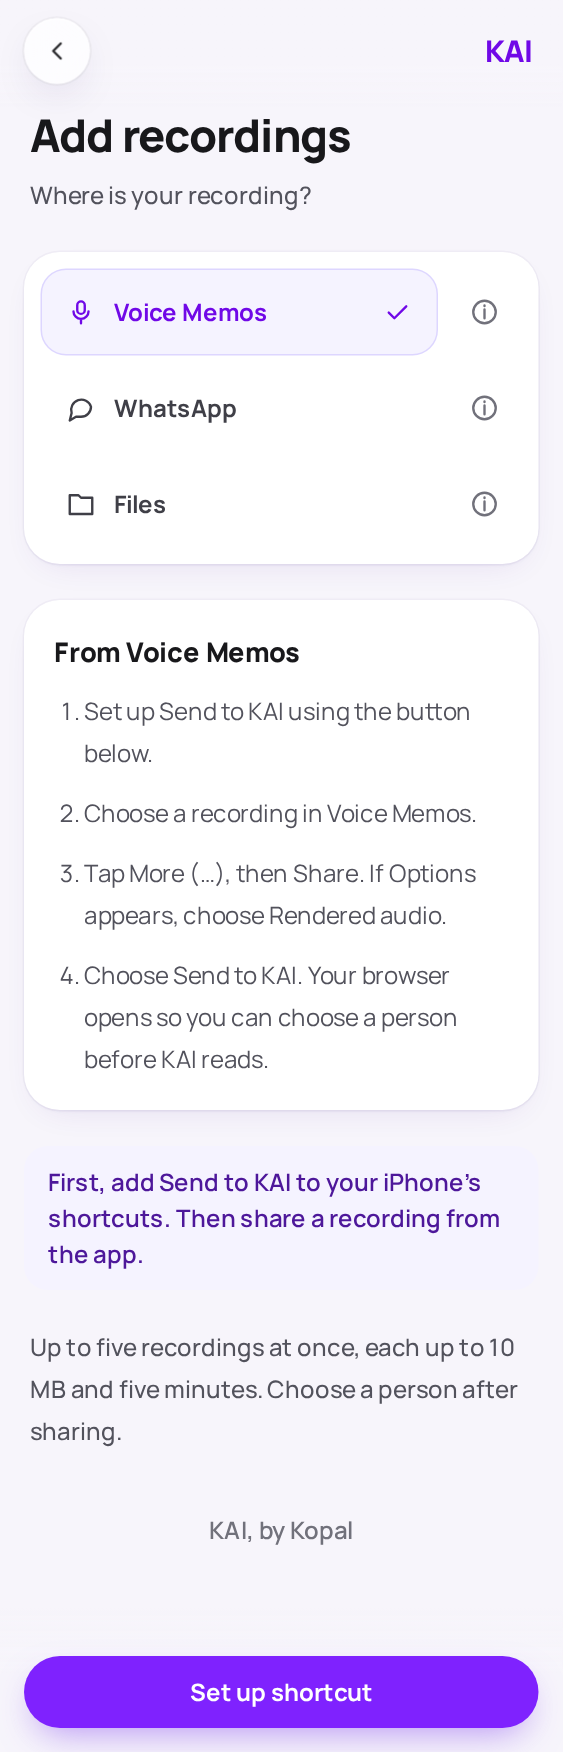
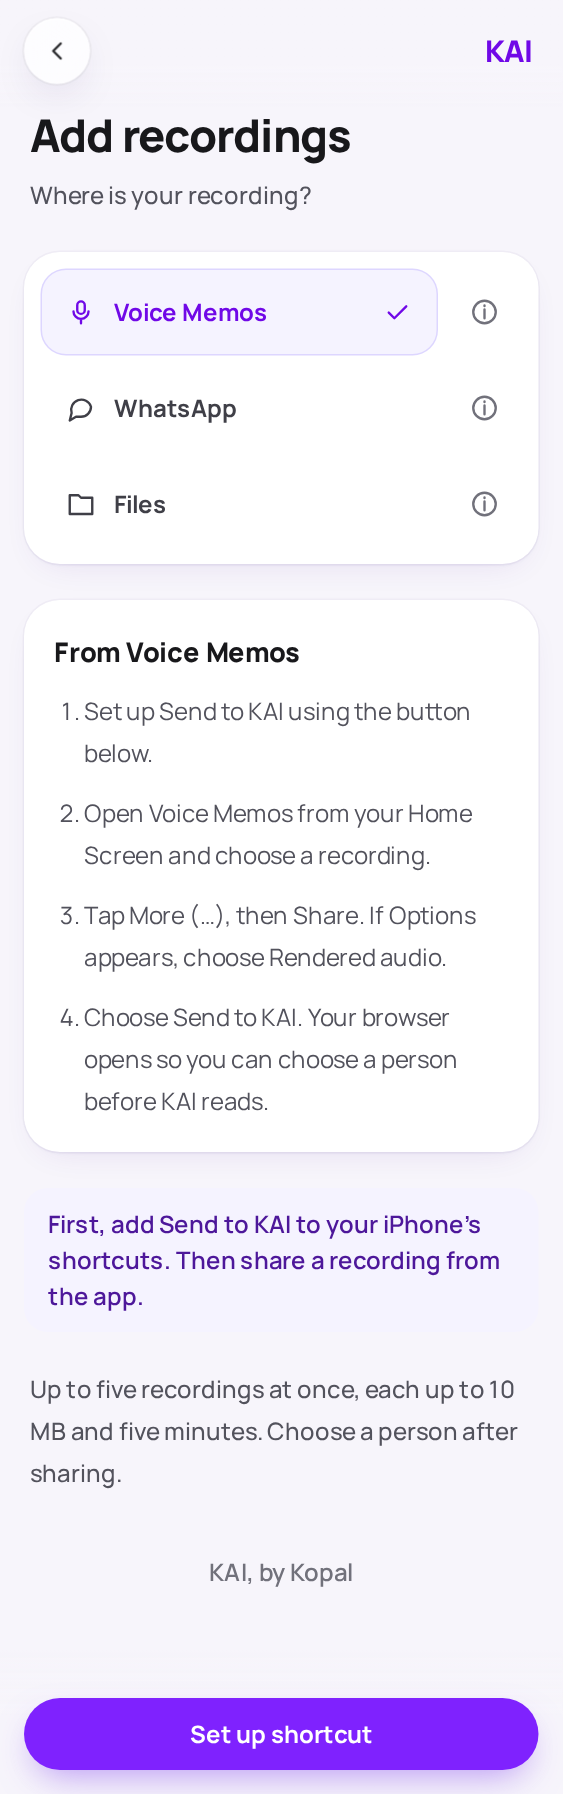
Replace rejected Voice Memos launch with sharing guidance

diff --git a/src/look/screens/Upload.tsx b/src/look/screens/Upload.tsx
@@ -5,7 +5,7 @@ import {Icon,type IconName} from '../icons'
 export type UploadSource='voice-memos'|'whatsapp'|'files'
 const sources:{id:UploadSource;label:string;icon:IconName}[]=[{id:'voice-memos',label:'Voice Memos',icon:'mic'},{id:'whatsapp',label:'WhatsApp',icon:'chat'},{id:'files',label:'Files',icon:'folder'}]
 const guides:Record<UploadSource,string[]>={
- 'voice-memos':['Choose a recording in Voice Memos.','Tap More (…), then Share. If Options appears, choose Rendered audio.','Choose Send to KAI. Your browser opens so you can choose a person before KAI reads.'],
+ 'voice-memos':['Open Voice Memos from your Home Screen and choose a recording.','Tap More (…), then Share. If Options appears, choose Rendered audio.','Choose Send to KAI. Your browser opens so you can choose a person before KAI reads.'],
  whatsapp:['Hold the voice note in WhatsApp, then tap Forward.','Tap Share, then Send to KAI.','Your browser opens so you can choose who sent it before KAI reads.'],
  files:['Save a recording to Files from the app’s Share menu.','Choose the person below, then choose up to five audio files.','KAI checks their length against your remaining time before starting.']
 }
@@ -29,19 +29,21 @@ export function Upload({ people, incoming, readOnly, presetPerson, busy, error, 
   onRetry: () => void
 }) {
   const [source,setSource]=useState<UploadSource>(initialSource),[guide,setGuide]=useState<UploadSource|null>(initialGuide ?? null)
+  const shownGuide=source==='voice-memos' && shortcutReady ? 'voice-memos':guide
   const exhausted=remainingSeconds===0 && !incoming
   const [selected,setSelected]=useState(presetPerson ?? '')
   const [id]=useState(()=>crypto.randomUUID())
   const [name,setName]=useState(''),[company,setCompany]=useState(''),[role,setRole]=useState('')
   const person:PersonChoice=selected==='new' ? {new_person:{id,name:name.trim(),company:company.trim(),role:role.trim()}} : {person_id:selected || null}
   const valid=selected!=='new' || Boolean(name.trim())
-  const dock=readOnly ? <WhatIsKai/> : loadError ? <Button variant="primary" wide onClick={onRetry}>Try again</Button> : !people ? <Button variant="primary" wide disabled>Opening…</Button> : exhausted ? <Button variant="primary" wide href={xPostUrl || '/home'}>{xPostUrl ? 'Show KAI some love':'Back to Home'}</Button> : incoming ? <Button variant="primary" wide disabled={busy || !valid} onClick={()=>onStart(person)}>{busy ? 'Starting…' : 'Let KAI read'}</Button> : source!=='files' ? <Button variant="primary" wide href={!shortcutReady ? '/connect?next='+source : source==='whatsapp' ? 'whatsapp://app':'voicememos://'}>{!shortcutReady ? 'Set up shortcut':source==='whatsapp' ? 'Open WhatsApp':'Open Voice Memos'}</Button> : <RecordingPicker label="Choose audio files" busy={busy} disabled={!valid} onFiles={files=>onFiles(files,person)}/>
+  const dock=readOnly ? <WhatIsKai/> : loadError ? <Button variant="primary" wide onClick={onRetry}>Try again</Button> : !people ? <Button variant="primary" wide disabled>Opening…</Button> : exhausted ? <Button variant="primary" wide href={xPostUrl || '/home'}>{xPostUrl ? 'Show KAI some love':'Back to Home'}</Button> : incoming ? <Button variant="primary" wide disabled={busy || !valid} onClick={()=>onStart(person)}>{busy ? 'Starting…' : 'Let KAI read'}</Button> : source!=='files' && !shortcutReady ? <Button variant="primary" wide href={'/connect?next='+source}>Set up shortcut</Button> : source==='whatsapp' ? <Button variant="primary" wide href="whatsapp://app">Open WhatsApp</Button> : source==='voice-memos' ? <Button variant="primary" wide onClick={()=>{setSource('files');setGuide(null)}}>Choose saved audio</Button> : <RecordingPicker label="Choose audio files" busy={busy} disabled={!valid} onFiles={files=>onFiles(files,person)}/>
   return <PushedPage back="/home" backLabel="Back to Home" readOnly={readOnly} dock={dock}>
     <header className="px-1"><h1 className="text-[30px]/9 font-extrabold tracking-tight">Add recordings</h1><p className="mt-2 text-base/7 font-medium text-zinc-600">{incoming ? 'Choose a person before KAI reads the recording.':'Where is your recording?'}</p></header>
     {readOnly ? <Card className="p-5 text-base/7 font-medium text-zinc-600">Open your own copy to add recordings.</Card> : loadError ? <Notice tone="error">{loadError}</Notice> : !people ? <Notice>Opening your upload…</Notice> : exhausted ? <Card className="space-y-3 p-5"><h2 className="text-xl font-extrabold">Your hour is complete</h2><p className="text-base/7 text-zinc-600">You’ve used your recording time. Your people, tasks and past recordings are still here.</p></Card> : <>
-      {!incoming && <Card className="p-3"><div role="group" aria-label="Recording source" className="space-y-2">{sources.map(item=><div key={item.id} className="flex items-center gap-2"><button type="button" aria-pressed={source===item.id} disabled={busy} onClick={()=>{setSource(item.id);setGuide(null)}} className={`${FOCUS} flex min-h-14 min-w-0 flex-1 items-center gap-3 rounded-2xl px-4 text-left text-base font-bold ${source===item.id ? 'bg-violet-50 text-violet-700 ring-1 ring-violet-200':'text-zinc-700 hover:bg-zinc-50'}`}><Icon name={item.icon}/><span className="flex-1">{item.label}</span>{source===item.id && <Icon name="check"/>}</button><button type="button" aria-label={'How to add from '+item.label} aria-expanded={guide===item.id} aria-controls="source-guide" onClick={()=>{setSource(item.id);setGuide(guide===item.id ? null:item.id)}} className={`${FOCUS} flex size-12 shrink-0 items-center justify-center rounded-full text-zinc-500 hover:bg-zinc-100`}><Icon name="info"/></button></div>)}</div></Card>}
-      {guide && !incoming && <Card id="source-guide" className="p-5"><h2 className="text-lg font-extrabold">From {sources.find(s=>s.id===guide)!.label}</h2><ol className="mt-3 list-decimal space-y-3 pl-5 text-base/7 text-zinc-600">{guide!=='files' && !shortcutReady && <li>Set up Send to KAI using the button below.</li>}{guides[guide].map(step=><li key={step}>{step}</li>)}</ol></Card>}
-      {!incoming && source!=='files' && <Notice>{shortcutReady ? 'Open the app, share your recording to Send to KAI, then choose a person here. If the app does not open, open it from your Home Screen.' : 'First, add Send to KAI to your iPhone’s shortcuts. Then share a recording from the app.'}</Notice>}
+      {!incoming && <Card className="p-3"><div role="group" aria-label="Recording source" className="space-y-2">{sources.map(item=><div key={item.id} className="flex items-center gap-2"><button type="button" aria-pressed={source===item.id} disabled={busy} onClick={()=>{setSource(item.id);setGuide(null)}} className={`${FOCUS} flex min-h-14 min-w-0 flex-1 items-center gap-3 rounded-2xl px-4 text-left text-base font-bold ${source===item.id ? 'bg-violet-50 text-violet-700 ring-1 ring-violet-200':'text-zinc-700 hover:bg-zinc-50'}`}><Icon name={item.icon}/><span className="flex-1">{item.label}</span>{source===item.id && <Icon name="check"/>}</button><button type="button" aria-label={'How to add from '+item.label} aria-expanded={shownGuide===item.id} aria-controls="source-guide" onClick={()=>{setSource(item.id);setGuide(guide===item.id ? null:item.id)}} className={`${FOCUS} flex size-12 shrink-0 items-center justify-center rounded-full text-zinc-500 hover:bg-zinc-100`}><Icon name="info"/></button></div>)}</div></Card>}
+      {shownGuide && !incoming && <Card id="source-guide" className="p-5"><h2 className="text-lg font-extrabold">From {sources.find(s=>s.id===shownGuide)!.label}</h2><ol className="mt-3 list-decimal space-y-3 pl-5 text-base/7 text-zinc-600">{shownGuide!=='files' && !shortcutReady && <li>Set up Send to KAI using the button below.</li>}{guides[shownGuide].map(step=><li key={step}>{step}</li>)}</ol></Card>}
+      {!incoming && source==='voice-memos' && shortcutReady && <Notice>Prefer Files? In Voice Memos, tap Share, then Save to Files. Come back here and choose your saved audio.</Notice>}
+      {!incoming && source!=='files' && !(source==='voice-memos' && shortcutReady) && <Notice>{shortcutReady ? 'Open the app, share your recording to Send to KAI, then choose a person here. If the app does not open, open it from your Home Screen.' : 'First, add Send to KAI to your iPhone’s shortcuts. Then share a recording from the app.'}</Notice>}
       {incoming && <Card className="p-5"><p className="text-base font-bold text-violet-700">Shared from your phone</p><h2 className="mt-1 text-lg font-extrabold">{incoming.title}</h2><p className="mt-2 text-base/7 font-medium text-zinc-600">Your recording is attached and waiting for you.</p></Card>}
       {(incoming || source==='files') && <Card className="space-y-4 p-5">
         <label htmlFor="upload-person" className="block text-base font-bold text-zinc-700">Person for this recording</label>

diff --git a/tests/phone/upload-sources.spec.ts b/tests/phone/upload-sources.spec.ts
@@ -17,7 +17,10 @@ test('three audio sources show guidance and return from shortcut setup to the ch
  await expect(page).toHaveURL(/upload\/new\?source=whatsapp$/);
  await expect(page.getByRole('link',{name:'Open WhatsApp',exact:true})).toHaveAttribute('href','whatsapp://app');await assertPhone(page);
  await page.getByRole('button',{name:'Voice Memos',exact:true}).click();
- await expect(page.getByRole('link',{name:'Open Voice Memos',exact:true})).toHaveAttribute('href','voicememos://');
+ await expect(page.getByText('Open Voice Memos from your Home Screen and choose a recording.',{exact:true})).toBeVisible();
+ await expect(page.locator('a[href^="voicememos:"]')).toHaveCount(0);await assertPhone(page);
+ await page.getByRole('button',{name:'Choose saved audio',exact:true}).click();
+ await expect(page.getByLabel('Person for this recording')).toBeVisible();
  await page.getByRole('button',{name:'Files',exact:true}).click();
  const picker=page.getByLabel('Add recordings: choose up to five audio files');await expect(picker).toHaveAttribute('accept','.m4a,.opus,.ogg,.mp3,.wav');
  await picker.setInputFiles({name:'invented.txt',mimeType:'text/plain',buffer:Buffer.from('Invented words.')});

diff --git a/design/README.md b/design/README.md
@@ -68,7 +68,7 @@ The dock at the foot of the screen holds it, except where noted.
 | Home, People, To-dos | "Add recordings": opens the upload page to choose a person, then files | "Try it yourself", to trial signup |
 | Recording | "Accept all · n"; "Try again" when it failed; "See people" when all is decided. Hidden while a suggestion is edited: "Save and accept" is then the one | "Back to Home" |
 | Person | "Review suggestions" when some wait; otherwise "Add recordings" | "Back to People" |
-| Upload | "Choose audio files", "Set up shortcut" or "Open Voice Memos / WhatsApp"; "Let KAI read" for a shared recording | "Try it yourself" |
+| Upload | "Choose audio files", "Set up shortcut" or "Open WhatsApp" or "Choose saved audio"; "Let KAI read" for a shared recording | "Try it yourself" |
 | Connect | "Copy your address", in the first card | "Try it yourself" |
 
 ### What the look shows that the server does not send yet
@@ -134,3 +134,6 @@ the person choice before reading. Remaining trial time is shown; when it
 is used, the notebook remains readable. The launch-post link is hidden
 until Copal supplies it. Shared recordings with already reserved time can
 still finish after the allowance reaches zero.
+
+Voice Memos shows sharing instructions after setup, with a Files fallback.
+Its rejected direct-launch address is not used. WhatsApp keeps its app link.
